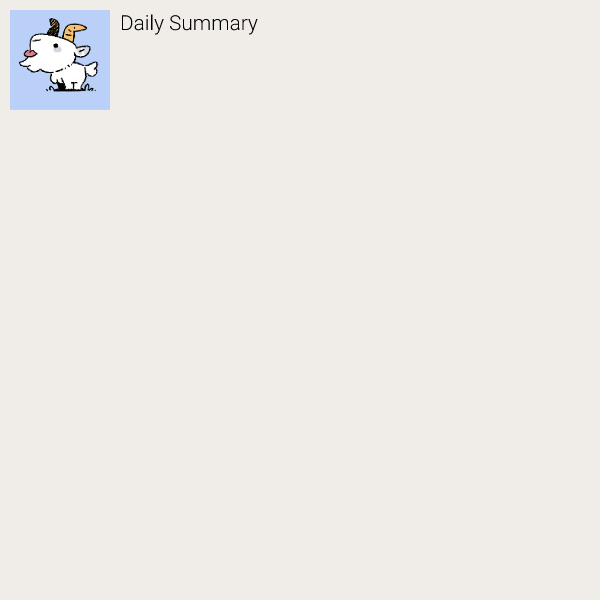
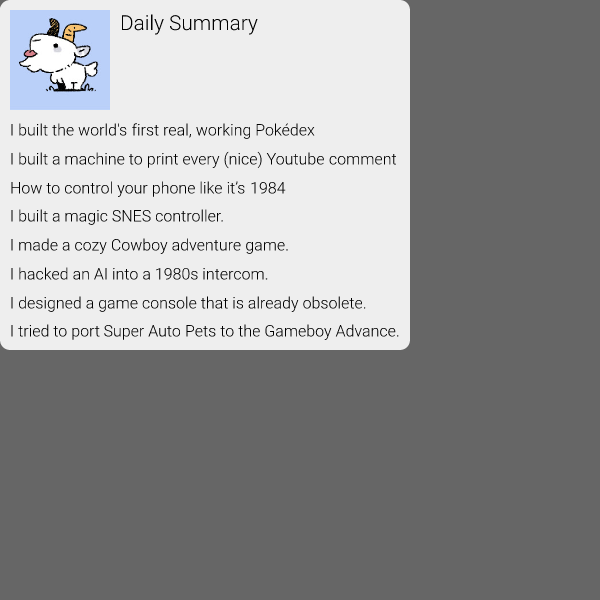
Adds data model

diff --git a/data.js b/data.js
@@ -1,0 +1,124 @@
+import sqlite3 from "sqlite3";
+
+const driver = sqlite3.verbose();
+const db = new driver.Database("./data.db");
+export function getModel() {
+  const model = {
+    history: {
+      videos: {},
+      channels: {},
+    },
+    metadata: {
+        videos: {},
+        channels: {},
+    }
+  };
+  let _resolve;
+  const p = new Promise((resolve) => (_resolve = resolve));
+  let checks = 0;
+  let resolveIfChecked = () => {
+    if (++checks == 4) {
+      _resolve(model);
+    }
+  };
+
+  db.all(
+    `
+SELECT
+id,
+JSON_EXTRACT(snapshot, "$.id") as video_id,
+date,
+CAST(JSON_EXTRACT(snapshot, "$.viewCount") as INTEGER) as viewCount,
+CAST(JSON_EXTRACT(snapshot, "$.likeCount") as INTEGER) as likeCount,
+CAST(JSON_EXTRACT(snapshot, "$.commentCount") as INTEGER) as commentCount
+FROM video_snapshots ORDER BY date DESC
+`,
+    [],
+    (err, rows) => {
+      if (err) {
+        throw err;
+      }
+
+      rows.forEach((row) => {
+        if (!model.history.videos[row.video_id]) {
+          model.history.videos[row.video_id] = [];
+        }
+        model.history.videos[row.video_id].push(row);
+      });
+      resolveIfChecked();
+    },
+  );
+
+  db.all(
+    `
+SELECT
+id,
+JSON_EXTRACT(snapshot, "$.id") as channel_id,
+date,
+CAST(JSON_EXTRACT(snapshot, "$.viewCount") as INTEGER) as viewCount,
+CAST(JSON_EXTRACT(snapshot, "$.subscriberCount") as INTEGER) as subscriberCount,
+CAST(JSON_EXTRACT(snapshot, "$.videoCount") as INTEGER) as videoCount
+FROM channel_snapshots ORDER BY date DESC
+`,
+    [],
+    (err, rows) => {
+      if (err) {
+        throw err;
+      }
+
+      rows.forEach((row) => {
+        if (!model.history.channels[row.channel_id]) {
+          model.history.channels[row.channel_id] = [];
+        }
+        model.history.channels[row.channel_id].push(row);
+      });
+
+      resolveIfChecked();
+    },
+  );
+
+    db.all(
+        `
+SELECT
+id,
+snapshot
+FROM channel_metadata
+`,
+        [],
+        (err, rows) => {
+            if (err) {
+                throw err;
+            }
+
+            rows.forEach((row) => {
+                model.metadata.channels[row.id] = JSON.parse(row.snapshot);
+            });
+
+            resolveIfChecked();
+        },
+    );
+
+    db.all(
+        `
+SELECT
+id,
+snapshot
+FROM video_metadata
+`,
+        [],
+        (err, rows) => {
+            if (err) {
+                throw err;
+            }
+
+            rows.forEach((row) => {
+
+                model.metadata.videos[row.id] = JSON.parse(row.snapshot);
+            });
+
+            resolveIfChecked();
+        },
+    );
+
+  return p;
+}

diff --git a/image.js b/image.js
@@ -1,35 +1,48 @@
 import satori from "satori";
 import { readFileSync, writeFileSync } from "fs";
 import { Resvg } from "@resvg/resvg-js";
+import {getModel} from "./data.js";
 
 const attributes = {
   width: 600,
   height: 600,
 };
 
+const model = await getModel();
+
 const svg = await satori(
-  {
-    type: "div",
-    props: {
-      children: [
-        {
-          type: "img",
-          props: {
-            src: "https://yt3.googleusercontent.com/EINPgUCs47PqBCzMTfn5KEIo3-Ry96fr7EA5XGpA5f1OA_HS77Tt0yXxLYFRmlXIiO3bIN1kJ2E=s176-c-k-c0x00ffffff-no-rj",
-            width: "100px",
-            height: "100px,",
+    {type: "div", props: {
+      style: {display: "flex", flexDirection: "column", padding: "10px", gap: "10px", borderRadius: "10px", backgroundColor: "#eee"},
+        children: [
+          {
+            type: "div",
+            props: {
+              children: [
+                {
+                  type: "img",
+                  props: {
+                    src: "https://yt3.googleusercontent.com/EINPgUCs47PqBCzMTfn5KEIo3-Ry96fr7EA5XGpA5f1OA_HS77Tt0yXxLYFRmlXIiO3bIN1kJ2E=s176-c-k-c0x00ffffff-no-rj",
+                    width: "100px",
+                    height: "100px,",
+                  },
+                },
+                {
+                  type: "div",
+                  props: {
+                    children: "Daily Summary",
+                    style: {fontFamily: "Roboto", fontSize: "1.3em"}
+                  },
+                },
+              ],
+              style: {color: "black", display: "flex", gap: "10px"},
+            }
           },
-        },
-        {
-          type: "div",
-          props: { 
-            children: "Daily Summary",
-            style: {fontFamily: "Roboto", fontSize: "1.3em"}
-          },
-        },
-      ],
-      style: { color: "black", padding: "10px", display: "flex", gap: "10px" },
-    },
+            ...Object.keys(model.metadata.videos).map((videoId) => {
+              return {type: "div", props: {children: model.metadata.videos[videoId].title}}
+            })
+        ]
+      },
+
   },
   {
     ...attributes,
@@ -51,7 +64,7 @@ const svg = await satori(
 );
 
 const opts = {
-  background: "rgba(238, 235, 230, .9)",
+  background: "rgba(0,0,0,.6)",
   fitTo: {
     mode: "width",
     value: attributes.width,
